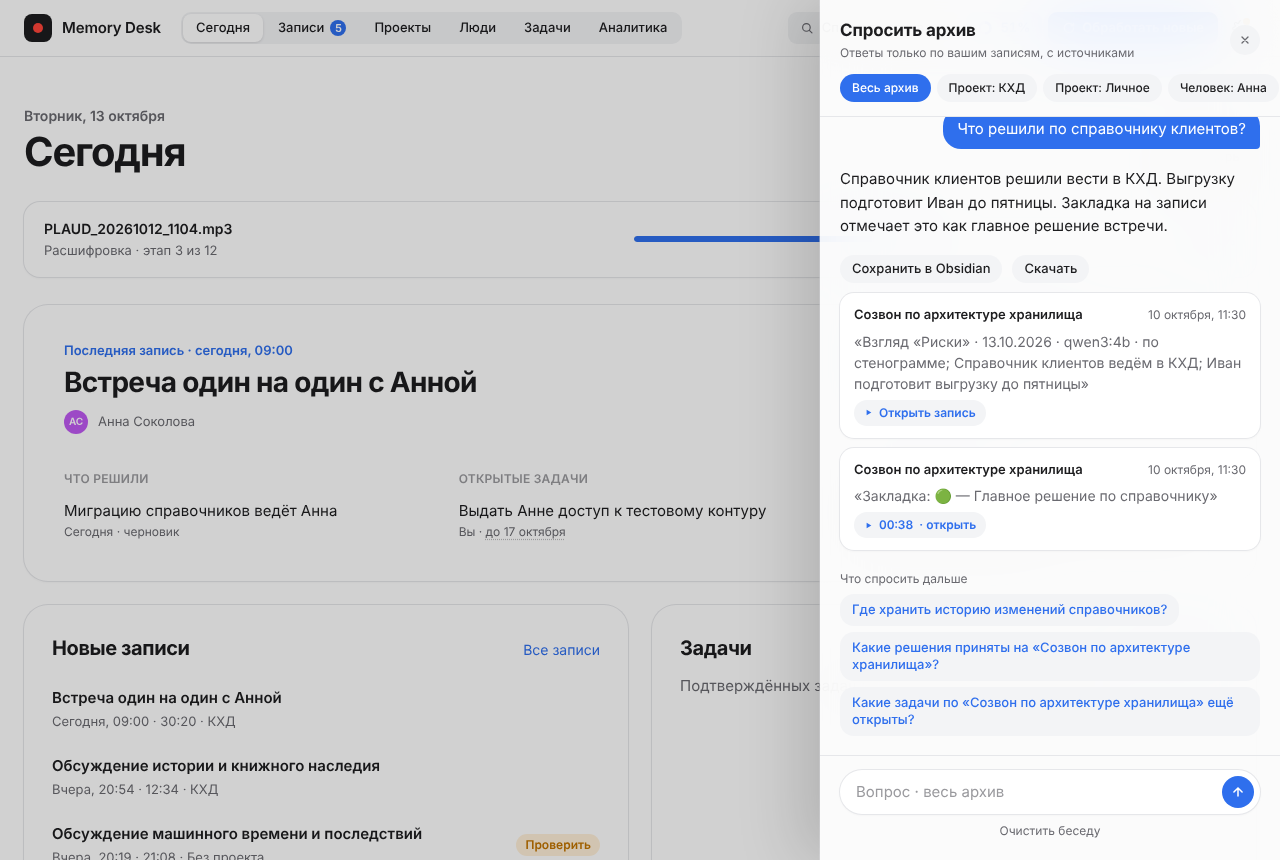
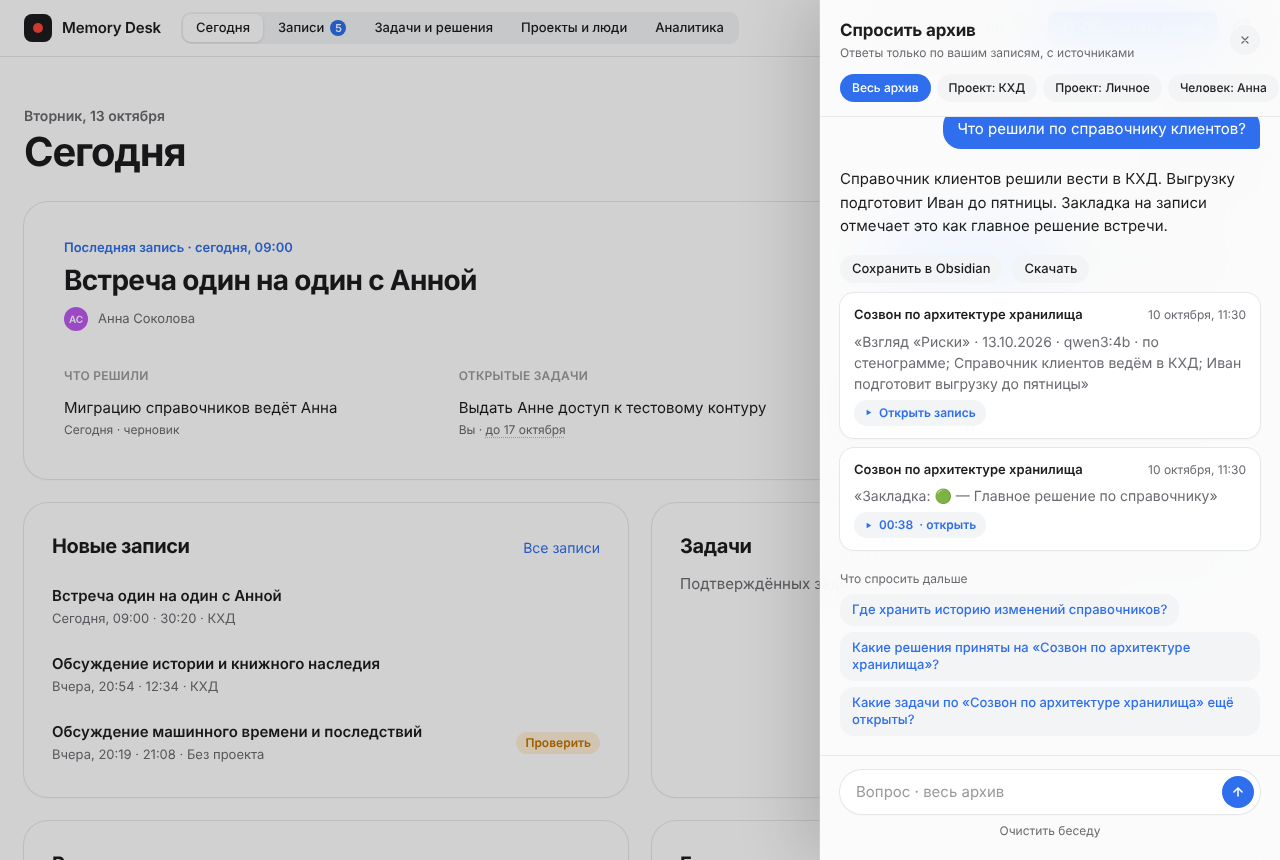
Скриншоты обновлены под новую навигацию; досье и люди в README

diff --git a/README.md b/README.md
@@ -114,11 +114,13 @@ chmod +x *.command meeting-assistant meetings-process
 | ![Сегодня](docs/img/today.png) **Сегодня** — утренняя сводка, последняя запись, задачи | ![Записи](docs/img/records.png) **Записи** — очередь обработки вверху, ниже список с фильтрами |
 | ![Запись](docs/img/record.png) **Запись** — плеер, закладки, стенограмма, решения и задачи | ![Взгляды](docs/img/views.png) **Взгляды** — разделы заметки с другим фокусом |
 | ![Чат](docs/img/chat.png) **Спросить архив** — ответ с источниками, подсказки, сохранение в Obsidian | ![Задачи](docs/img/tasks.png) **Решения и задачи** — реестр, черновики на подтверждение |
-| ![Проекты](docs/img/projects.png) **Проекты** — метрики, «Презентация», «Карта», подготовка к встрече | ![Аналитика](docs/img/analytics.png) **Аналитика** — динамика, сроки, связи людей и проектов |
-| ![Дерево решений](docs/img/decision-tree.png) **Дерево решений** — действующие и заменённые | ![Календарь](docs/img/calendar.png) **Календарь** — события и записи за любой диапазон |
+| ![Проекты](docs/img/projects.png) **Проекты** — метрики, «Досье», «Презентация», «Карта» | ![Люди](docs/img/people.png) **Люди** — карточки с должностью и организацией, «Добавить человека» |
+| ![Досье человека](docs/img/person.png) **Досье человека** — обязательства, решения, проекты, вопросы, хронология | ![Досье проекта](docs/img/project.png) **Досье проекта** — состояние, задачи по людям, решения, динамика |
+| ![Аналитика](docs/img/analytics.png) **Аналитика** — динамика, сроки, связи людей и проектов | ![Календарь](docs/img/calendar.png) **Календарь** — события и записи за любой диапазон |
+| ![Дерево решений](docs/img/decision-tree.png) **Дерево решений** — действующие и заменённые | ![Темы](docs/img/dark.png) **Темы** — пять палитр, у каждой светлый и тёмный режим |
 | ![Протокол](docs/img/protocol.png) **Протокол** — с правкой и сохранением в Obsidian | ![Экспорт](docs/img/export.png) **Экспорт** — PDF, Word, HTML, Markdown |
 | ![Карта](docs/img/map.png) **Карта** — дерево встречи; PNG, SVG, OPML | ![Презентация](docs/img/deck.png) **Презентация** — `.pptx` по проекту или человеку |
-| ![Тёмная тема](docs/img/dark.png) **Темы** — пять палитр, у каждой светлый и тёмный режим | ![Карта в PNG](docs/img/map-export.png) **Карта как PNG** — то, что получается при выгрузке |
+| ![Карта в PNG](docs/img/map-export.png) **Карта как PNG** — то, что получается при выгрузке | |
 
 > Снимки сделаны на вымышленных данных. Ответ в чате на снимке написан заглушкой вместо модели, чтобы показать вид ответа: настоящую `qwen3:4b` в среде разработки запустить нельзя.
 
